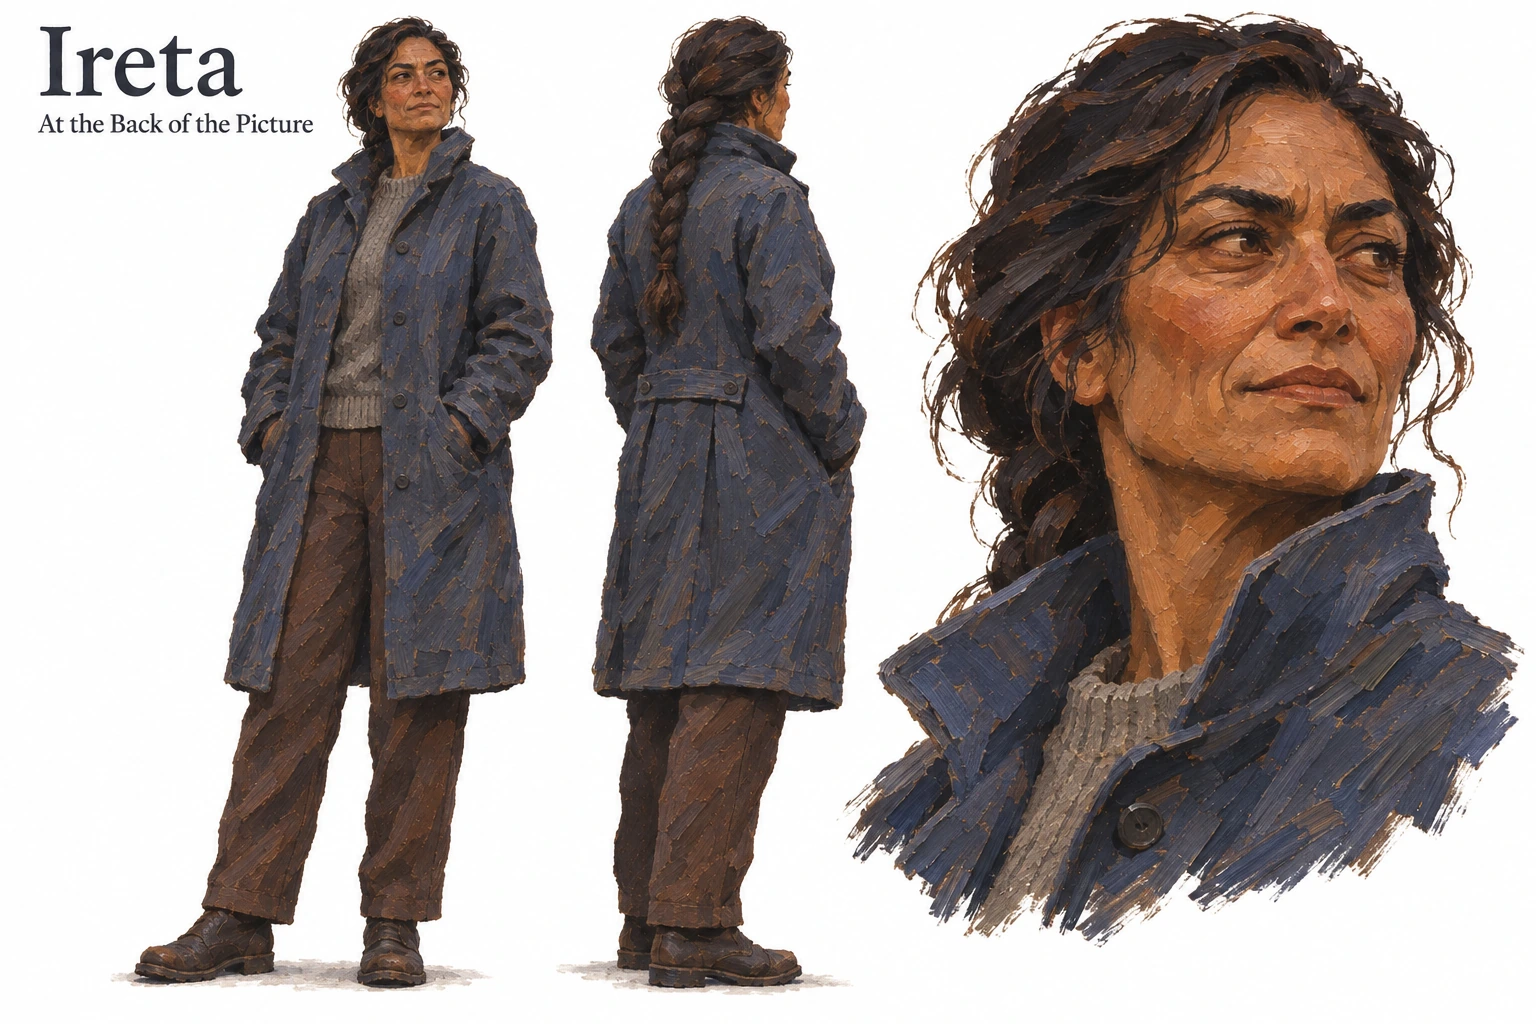
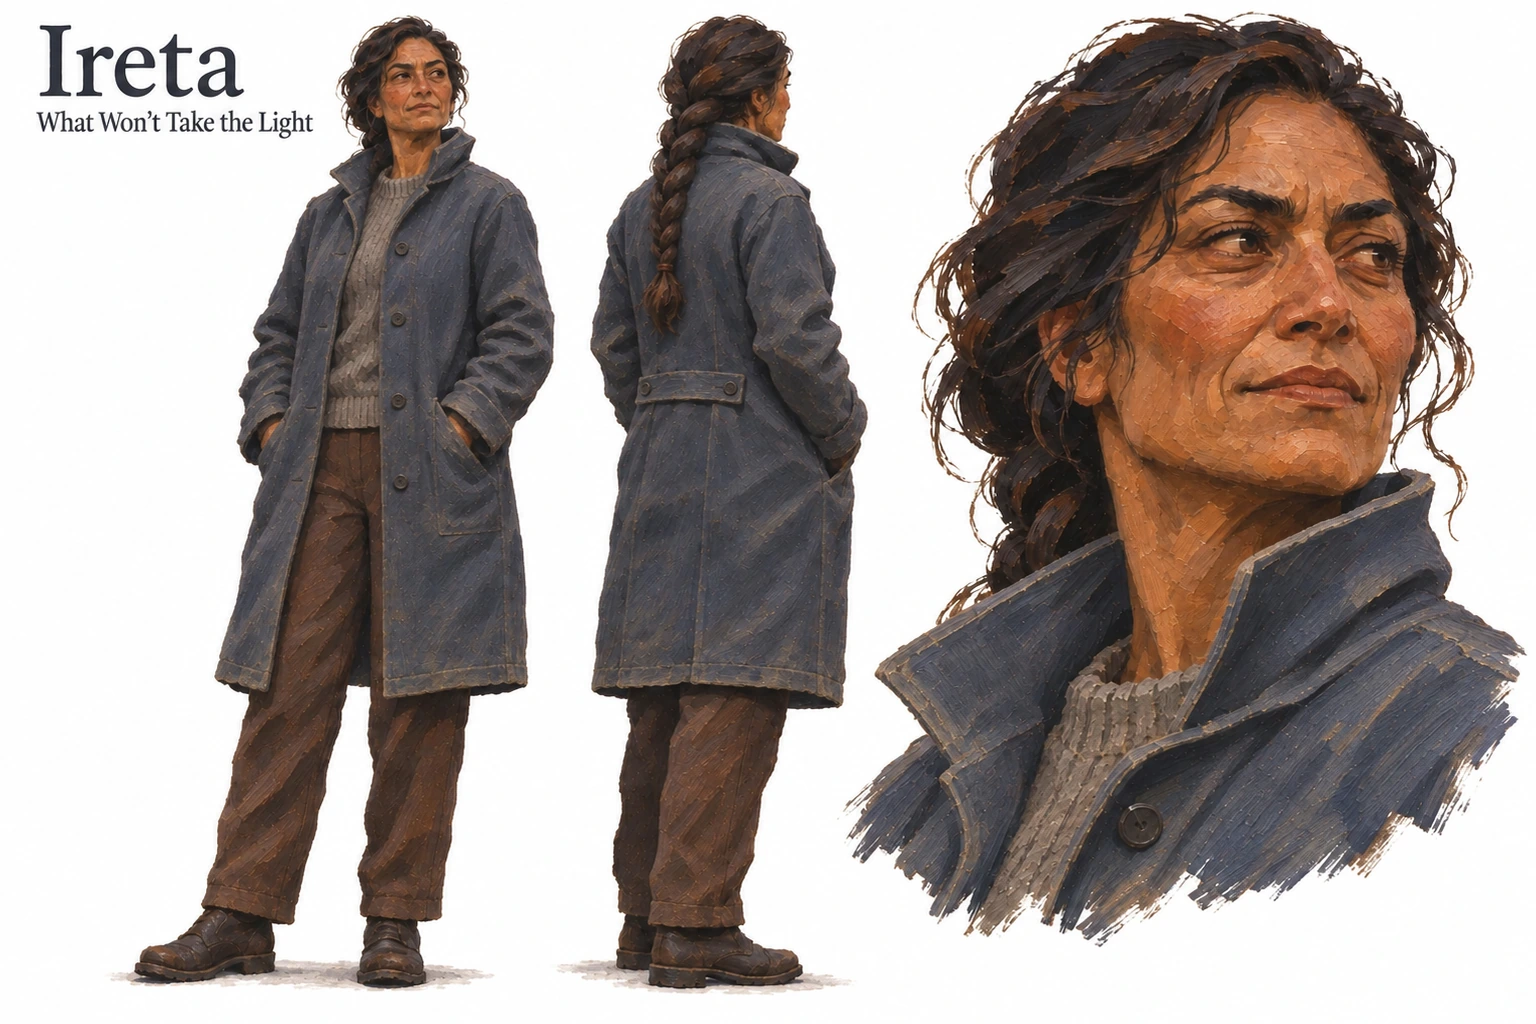
Finish What Won't Take the Light with revised art

diff --git a/stories/silver-armor-archivist/notes.md b/stories/silver-armor-archivist/notes.md
@@ -1,68 +1,19 @@
 # Editorial notes
 
-## 2026-11-14 · Request readings
+## 2026-11-14 · First version
 
-**Codex promise keeper, independent.** The request fixes the restoration discovery, the woman behind the victorious family, her recurrence in coronation paintings and execution sketches and republican footage, and the increasing damage to the same white armor. The archivist knows her through the records at first. “The pleasure is watching the archivist learn to read the margins of official history.” Changes of medium give each find a different texture and the damage gives a second chronology. The keeper expects “quiet unease that can grow into historical awe” and a discovery that changes the meaning or cost of her presence. Allegiance, nature, a meeting, and any explanation stay open. The figure's lowered hood, red seams, and half-open hand read as “guarded and self-possessed.”
+The original request asks for the same woman and increasingly damaged white armor across the victory print, coronations, executions, and republic footage. Before seeing a plot, the Codex keeper anticipated “quiet unease that can grow into historical awe.” Claude singled out the “cross-media trail” and the “damage as a timeline.” The first version used the photographs to solve an evacuation and left the woman physically present. The independent readers found the wear and the royal child's arc effective, but both had to reconstruct the gallery during the rescue. The final revision made the load and the woman's decision to leave visible. Decisions returned Yes at both the outline and final checkpoints, each with native confidence 0.98, P(Yes) 0.99, P(No) 0.01, and no source ambiguity. Both proceeded with zero restarts. The earlier version and its editorial record are preserved in Git.
 
-**Claude outline reader, independent.** The “cross-media trail,” “damage as a timeline,” and “detective’s eye” are the pleasures to preserve. It reads “always wearing” as endurance with a possible cost, and her place behind the family as a question of role and allegiance. Its archive-bound slow-burn scale and anticipation of a possible meeting are inferences. The photo opens the investigation regardless of the historical order of particular sightings. It reads the reference as “tired and patient, more a sentinel than a warrior,” with the red-lit mechanical joints and hood suggesting technology that could account for her lifespan, while leaving that answer open.
+## 2026-11-14 · What Won’t Take the Light
 
-## Outline discussion
+The user rejected the opening and asked for “more a of ghoust in the images and ghoustly in real life.” The keeper wanted the first restoration scene to feel uncanny before the second image appeared. Claude wanted the reader to feel the presence “before anyone explains it,” and read the original portrait's dissolving edges as “half-ghost.” Both treated the woman's origin and allegiance as open.
 
-**Codex keeper, first reading.** The damage chain is evidence, the moving footage shows what the still images cannot, Ireta reuses the victory print to find the way out, and the woman takes the shoulder load and decides when to release. “At present the ring explains her presence at every event, but the outline gives little evidence of what she saw or chose while the people she stood behind rose and fell.” It singled out the reaching royal hand in the execution sketches and the republic's final change of frame. It wanted the ring, last family, and exit legible in the crossing.
+At outline review, the keeper wanted the woman to reach for a particular person and the camera to interrupt that choice. Claude warned that if the footage simply supplied a rule, the climax could become “an escape-room task.” The revised plan gives the boy a recognizable backward reach and sash, then follows the woman's reach through paint, paper, footage, and the physical room. Ireta gives up a chance to preserve proof, while the woman asks for a private crossing and chooses to touch her on the way out. The child waiting at the threshold makes her departure a reunion. The outline gate returned Yes, native confidence 0.82, P(Yes) 0.91, P(No) 0.09, and no source ambiguity. Drafting proceeded with zero restarts.
 
-**Claude outline reader, first reading.** “Each fresh break in the armor follows the line of force through her body” was the strongest plan. At the same time, “the decisive action and the ending belong to a disaster-rescue story about a building” if the family matters only because the ring is behind their dais. It also singled out the reaching hand. The reference's lowered eyes, frayed edges, and loose hand read as tired and inward, qualities the release can carry. The reader wanted a reason for both coronation and execution in this hall and a clear sightline from dais to ring to gallery.
+Both cold readers felt the opening taps and recognized the woman as the same spectral figure throughout. Codex felt the boy's loss when his sash returned on the empty chair. Claude singled out the raised paint and red thread. Both hesitated over whether the live camera caused the woman to stop. Claude initially proposed making the paint obey the same rule, then withdrew that suggestion. The writer used the footage to make the boot land as the cloak leaves the frame, and the bench camera to catch the fingers “joint by joint.” When Ireta points the camera at the wall, the woman's hand finishes opening in plain sight. A fresh look-away request can then be answered as courtesy. The reader who returned followed both choices. The writer kept “Does he still run ahead?” because Ireta had seen the backward reach and heard the little feet double back.
 
-**Comparison before drafting.** Both readers and the writer agreed that the requested reign-to-republic trail needed to carry the crossing. In discussion Claude withdrew its call for a formal tie to the dynasty after the keeper pointed to “standing behind” and “appears,” and the keeper accepted Claude's point that the first republic appearance needed a choice of its own. The writer made the royal child in the victory photograph the queen who takes the woman's free hand in the execution sketches. In the first republican footage the woman uses that hand to direct a spectator from the sag while the other holds the tie, and the radio log calls her an unauthorized guest. The last crossing now brings the queen's childhood witness within reach of that hand. Ireta uses the original frame to find the exit, then waits while the woman, still able to bear the span with her shoulder, chooses to step clear and leave the gauntlet in the eye. The new damage and the changed framing answer the photographic discovery. Both readers found that this preserves the historical stakes through the rescue. The writer retained the ambiguity of allegiance and the plan to show an irreversible shift in the historic support during the live crossing. Claude's quieter reading of the reference gives the ending a useful posture, once the strain is gone.
+The fresh Codex reader believed the encounter through the hair passing through the knob and the four points of pressure under Ireta's collar. It wanted the last queen connected to the aunt it had seen at the second coronation. Claude felt the same loss of orientation and paused at the torn wrist and the entrance to the room. In context the two ends of the sash now identify the queen, the torn flap carries off the drawn wrist plate, and the broken cane seat refers back to the chair's fall at the opening. Both readers followed the repair. The story keeps the origin of the apparition open. It makes her accumulating damage physical through the lost finger at the final touch, then leaves the two sets of frost prints as evidence of who went through the door.
 
-**Outline fidelity.** Decisions returned Yes, native confidence 0.98 (P(Yes) 0.99, P(No) 0.01, source ambiguity 0). Proceeded to the voice trial with zero restarts.
+The final gate returned Yes, native confidence 0.98, P(Yes) 0.99, P(No) 0.01, and no source ambiguity. Art followed with zero restarts.
 
-**Voice trial.** The keeper chose the retrospective opening at “When the silver moved off his face I was glad for him,” hearing a person implicated in the archive. Claude chose close third at “She put her wrist against its edge until the vibration passed,” where the Hall acts on Ireta before she knows why. The writer took the close third for the discovery and crossing, with the retrospective voice's sympathy for the shut-eyed king and Ireta's own experience of cropping folded in. The two openings are preserved in the branch history.
-
-## First draft readings
-
-The profile found 3,958 words in three scenes, with longer developed paragraphs and little short-turn dialogue. The cold readings tested where pace actually changed.
-
-**Codex cold reader, first effects.** The mended stocking and shut eyes taught it to look past ceremony, and the woman's hand still open after the queen moves out of reach carried the most feeling. The same nick, crack, bare plate, and lost finger gave the archival discoveries a physical sequence. It preferred leaving the lifespan open. At “I know that stair” it started rereading for direction, then lost track of the load when the woman moved her shoulder. It wanted a focused revision of space and weight before publication. “Ireta heard it take her weight” lands because the cane foot and the woman's thumb slow the crossing. “She tried the plausible things first” sounded generic. It heard distinct voices in Ireta's line about the king's feet, the woman's “I've got you,” and the grandmother looking at her father's knee. The tight exchange with the steward was less individual. The hair entering the hinge, lost plate, and empty sleeve sustained the casting, and malt, hot coats, and splitting varnish put the reader in the Hall.
-
-**Claude cold reader, first effects.** It trusted Ireta at “Imagine having to look pleased for another hundred years.” The still woman with the hand just folding was its strongest feeling. It got the requested sequence and the “damage told through the forefinger,” but felt the uncanny discoveries were too quickly succeeded by engineering. “I was skimming and rebuilding the hall in my head.” It could not place the gallery, dais, stairs, door, and hanging when the route mattered and had trouble with plates and bearings. It heard Ireta most clearly in material distinctions such as the “little hard loops of graphite,” found the blocks similar in pace, and wanted the first two movements to give the queen and Ireta more room. The grandmother's long speech and the woman's quiet imperatives already worked. It recognized the woman throughout, especially the hair wearing the armor dull and the white disappearing at dusk. “The sensory work is strong. The blueprint is what's missing.”
-
-**Keeper's complete-draft comparison.** The coronation misread, then the execution hand and camera motion, change what Ireta can know and do. “I could see your shoes from down here” gives the earlier execution a consequence in the last rescue, and “The gallery stopped moving” gives the woman time to choose release. The bare wrist and final camera angle complete the progression. The keeper found no material fidelity issue and also had to puzzle out which of several differently named iron pieces the shoulder held.
-
-**Cold discussion.** The Codex reader identified a stair reference that switches before the steward sees outside. It argued to keep the rewind because motion answers a question the images have sharpened. Claude withdrew its broad worry about premise displacement after the keeper's observation that recognition of the child witness gets her to cross, and narrowed its objection to competing names for the iron during the highest pressure. “Most of what I called drift is spatial confusion eating into the uncanny effect.” The writer proposed making the public stair, gallery, and dais legible through earlier sightlines, leaving the steward to stop incoming traffic, finding the exit by matching the stripe and mark, and following a single bar through the shoulder transfer. The readers asked to retain the consequence of the rewind and of the transfer, and to protect the open hand and closing camera angle. The writer also proposed a specific false reading that Ireta herself made of the vote count. A little more room with the queen and one plainly familiar face in the footage can deepen recognition without resolving the woman's origins.
-
-**Whole rereads after restaging.** Both cold readers followed the escape at reading speed, from the stair established by the ringing cups to the mark behind the hanging, and felt the step lift when the bar met the woman's shoulder. Codex asked to protect “The empty gallery held” before the buckle. Claude felt Ireta's choice land in “She could have saved that hand when she cropped it,” and watched the queen's two-finger grip carry through to the crossing. The writer kept the ribbon in the woman's memory alone after Claude agreed that drawing it would cost the story the child's absence from the record. Two remaining local continuity points were the spectator's knees in the old footage and the features Ireta can recognize from the photo. Claude also wanted the steward's movements and the order about the public stair tightened at line scale.
-
-**Line edit.** The fresh editor heard a dry, patient voice with a trade, strongest when the execution artist could “draw[n] her once for both pictures.” It flagged uniform paragraph blocks, recurrent duration phrases, sightline inconsistencies, and pronoun and hand-position slips. In the print, silver haze now slides off while the strands and the corner of the mouth remain. “A line of numbers seen through a piece of torn paper” became red seams bleeding into green footage and a finger striking with “the bright knock of a coin.” At the rescue the steward proposes the front way, giving “Don't send them back under me” an immediate listener and purpose. The writer specified the grandmother's visit as the day of the executions, declined to make the later spectator her father, and passed on the proposed trade term for the overpaint because Ireta was looking at a scan. The writer kept Ireta's unwaved hand as a pause for the woman to make her own decision. The damaged cuff now leaves its impression on bare skin, and the small smile returns with the ribbon memory.
-
-## Fresh final readings
-
-**Codex final reader, first effects.** The mended stocking and the king's closed eyes made it trust Ireta before she identified the woman. Grief came in at “The woman's fingers had kept their shape as the queen's left them.” The count footage changed its reading of the raised hand on the cup. It recognized the portrait's grave, self-possessed figure through the fallen hair, red seams, inclined head, and wrist mark, and heard distinctive voices in the steward's worry over the lights and “It's your foot I want.” Cedar and malt located the exit. It would publish, with one hesitation at “a piece of the iron that had been holding it up,” where the route was clear but the relation of bar, stone, and shoulder had to be inferred.
-
-**Claude final reader, first effects.** It cared at the two-finger grip in the execution sheet and found the close of the crossing earned. It recognized the pensive face, worn white armor, and red seams. “You've got boots on, they'll go farther than that” was the strongest dialogue for it. It would ask for revision because “I still don't know what the bar supports” or why it moves, and the room was hard to picture even with the brewery and doorway well planted. It wanted longer with the century of recurrence and more of Ireta's felt astonishment. It read the steward's fifty-year remark as dating the much older photograph and was unsure when the grandmother first indicated the seats.
-
-**Keeper, final comparison.** The loss sequence continues through the bare wrist. Ireta's earlier crop of the vote count and the full frame she uses to find the door make her discoveries consequential. “I could see your shoes from down here” carries the historical witness into the rescue. The keeper followed the simpler bar and shoulder but pointed out that “silver” now described the print without identifying the hair. Restore the hair color in prose.
-
-**Final exchange and repairs.** The readers agreed the door and route were already legible. Their remaining difference was how much the unclear load cost the reader. The writer put the near beam into the old footage, set it visibly on the bar held in a bracket, and then gave the fallen bracket a gray collar of mortar at the woman's feet. The shoulder holds the iron while she unbuckles and steps aside. Both final readers followed that through the fall on rereading and would publish this version. The silver hair is explicit against the damaged hood in the first-count footage, and Ireta's knuckles against the dated print give the unchanged face time to register. The republic now owns the steward's estimate of fifty years, and the grandmother points before Ireta follows her attention. The writer kept the woman tender toward the queen and the people above her. Both readers agreed her two hands and her memory of the ribbon make those attachments compatible. The request leaves her origins and allegiance open.
-
-**Readiness.** The means of viewing changes what Ireta knows. The restored print and oils give her the nick and then the crack, the drawn sequence gives her the missing knuckle and the queen's hand, and the republic's footage shows the danger the stills could only hint at. The last camera can record the lost gauntlet and its wearer leaving by choice. Protect the small time inside “Ireta heard it take her weight” and the woman's steady, attentive manner, which both readers recognized from the casting. Tarse's gallery, pillar and doors make it possible for knowledge from the photograph to save the people who came to see it enlarged. The story borrows no named people, places, or mechanisms from canon.
-
-**Final fidelity.** Decisions returned Yes, native confidence 0.98 (P(Yes) 0.99, P(No) 0.01, source ambiguity 0). Proceeded to art with zero restarts.
-
-## Art
-
-The built-in imagegen tool used the supplied portrait to cast the woman and the finished prose to establish her armor's damage. Marshal Drost and Imogen's sheets guided paint handling and presentation. The Lantern Theater and Haverel's Hall studies guided timber, stone, and cloth. Bellwether's booking hall also informed the ticket room and stair textures. The finished sheets show Ireta and the woman separately. The location references cover the gallery and dais, the former ticket room where Ireta restores the print, and the exterior stair. The cover uses the accepted principal sheets and Hall study to show Ireta finding the door while the woman holds the bar.
-
-## 2026-11-14 · Haunting revision
-
-**Codex keeper, independent reading of the new direction.** “I’d want the first discovery to feel uncanny before Ireta finds the second image, and each new record to deepen that feeling as the armor’s damage gives her something concrete to follow.” The new opening and living encounter both need to carry the haunting. The keeper reads the portrait's watchful face, ragged hood, and solid, illuminated plates as the recognizable body that makes her presence uncanny. Literal death, the nature of the manifestation, motives, and a mournful or frightening register are open.
-
-
-**Claude, independent request reading.** “The reader should feel her presence before anyone explains it.” It sees the armor as a clock and wants each image to increase the wrongness until the apparition reaches the archivist's room. It inferred an encounter driven by recognition and described the portrait as patient, with brushwork that makes her look “half-ghost.” It left literal death, allegiance, and the ending open.
-
-
-**Direction, independent readings.** The keeper saw the new opening begin with “the fingers catch at the margin, and she hears them rap when she covers it again.” It wanted the last drawn reach to be for someone she chose and the camera to interrupt a new choice. Claude called the tearing execution sheet the strongest image and saw the woman drive the escape with Ireta giving up the record. Its concern was “‘Security footage finally shows how to read the marks.’ This turns the footage into a rule reveal,” especially if the conditions that hold her invite explanations. Both wanted the final touch to stay voluntary. Claude asked for a concrete trace of departure and for Ireta's desire for a living witness to arrive earlier.
-
-
-**Comparison before redrafting.** The writer and readers agreed to make the photograph move and sound while Ireta is still restoring it. The paint catches in a broken cuff, the execution paper lifts toward the space left by the royal boy, and security footage interrupts the woman mid-reach and takes her hood. Claude and the keeper agreed that showing whose hand she lost keeps the explanation from taking over. The new turning point gives Ireta a choice about recording a living witness and the woman a distinct request for privacy. Her return touch is hers to give, and the two sets of frosted footprints show where she has chosen to go. The earlier draft's physical rescue and engineering are gone in this direction. The archive and the same white armor serve the succession of apparitions through to the encounter.
-
-**Haunting outline fidelity.** Yes, native confidence 0.82 (P(Yes) 0.91, P(No) 0.09, source ambiguity 0). Proceeded to the new draft with zero restarts. The early moving photograph, the child she reaches for in drawings and footage, and the private crossing establish the new direction.
+The built-in imagegen tool used the original portrait for the woman's identity and the earlier character sheets for visual continuity. The palace writing room and lowest gallery studies guided the texture of timber and masonry in the three new locations. The cover follows the accepted woman, conservation room, and passage references. It shows the encounter at the door, with the boy reaching into the vacant corner of the photograph.

diff --git a/stories/silver-armor-archivist/ratings.md b/stories/silver-armor-archivist/ratings.md
@@ -1,5 +1,5 @@
 # Content rating
 
 - **Rating:** Teen
-- **Content notes:** Historical executions of members of the royal family, depicted indirectly through sketches. Sustained peril during the evacuation and collapse of a gallery.
-- **Reason:** The executions are non-graphic. The prolonged danger to the people in the gallery may be too intense for younger readers. The cover shows the rescue setting and damaged armor without injury.
+- **Content notes:** Sustained ghostly unease, non-graphic historical executions shown in sketches, and the past death of a child.
+- **Reason:** The prose builds dread through moving images and a spectral encounter, with the executions conveyed indirectly. The cover depicts the apparition and her damaged armor without graphic imagery.
